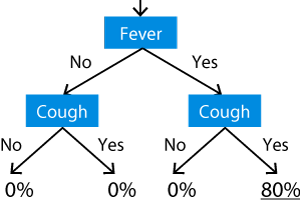
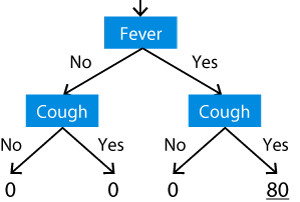
Change to points to avoid the desire to sum to 100

diff --git a/user_studies/tree_max/static/js/bundle.js b/user_studies/tree_max/static/js/bundle.js
@@ -16156,7 +16156,7 @@ var AssignCompetitiveLoss = function (_React$Component) {
             _react2.default.createElement(
               'p',
               null,
-              'People\'s chance of having a certain disease is computed in the following manner:'
+              'People\'s risk of having a certain disease is computed in the following manner:'
             ),
             _react2.default.createElement(
               'div',
@@ -16184,7 +16184,7 @@ var AssignCompetitiveLoss = function (_React$Component) {
                     _react2.default.createElement(
                       'td',
                       null,
-                      '80% chance'
+                      '80'
                     )
                   ),
                   _react2.default.createElement(
@@ -16198,7 +16198,7 @@ var AssignCompetitiveLoss = function (_React$Component) {
                     _react2.default.createElement(
                       'td',
                       null,
-                      '0% chance'
+                      '0'
                     )
                   )
                 )
@@ -16213,7 +16213,7 @@ var AssignCompetitiveLoss = function (_React$Component) {
               _react2.default.createElement('br', null),
               _react2.default.createElement('br', null)
             ),
-            'Among all the people an equal proportion have fever AND cough, just fever, just cough, and neither fever nor cough. This means that before a doctor knows a person\'s symptoms their chance of having the disease is 20% (which is 80% * 1/4).',
+            'Among all the people an equal proportion have fever AND cough, just fever, just cough, and neither fever nor cough. This means that before a doctor knows a person\'s symptoms their risk of having the disease is 20 (which is (80+0+0+0)/4, the average risk).',
             _react2.default.createElement('br', null),
             _react2.default.createElement('br', null),
             'One person has the following symptoms:',
@@ -16262,12 +16262,12 @@ var AssignCompetitiveLoss = function (_React$Component) {
             _react2.default.createElement(
               'b',
               null,
-              'increased 60%'
+              'increased 60 points'
             ),
-            ' from 20% to 80%.',
+            ' from 20 to 80.',
             _react2.default.createElement('br', null),
             _react2.default.createElement('br', null),
-            'What portion of this 60% increase in risk is attributable to each of the two symptoms? (the numbers below do not need to add to 100)',
+            'What portion of this 60 point increase in risk is attributable to each of the two symptoms?',
             _react2.default.createElement('br', null),
             _react2.default.createElement('br', null),
             _react2.default.createElement('br', null),
@@ -16287,7 +16287,7 @@ var AssignCompetitiveLoss = function (_React$Component) {
                       'td',
                       { style: { textAlign: "center", width: "150px" } },
                       _react2.default.createElement(_TextField2.default, { name: 'fever', value: this.state.fever, onChange: this.handleChange, style: { width: "20px", marginLeft: 3, marginRight: 3 } }),
-                      ' %',
+                      ' points',
                       _react2.default.createElement('br', null),
                       'Fever: ',
                       _react2.default.createElement(
@@ -16300,7 +16300,7 @@ var AssignCompetitiveLoss = function (_React$Component) {
                       'td',
                       { style: { textAlign: "center", width: "150px" } },
                       _react2.default.createElement(_TextField2.default, { name: 'cough', value: this.state.cough, onChange: this.handleChange, style: { width: "20px", marginLeft: 3, marginRight: 3 } }),
-                      ' %',
+                      ' points',
                       _react2.default.createElement('br', null),
                       'Cough: ',
                       _react2.default.createElement(

diff --git a/user_studies/tree_max/AssignCompetitiveLoss.jsx b/user_studies/tree_max/AssignCompetitiveLoss.jsx
@@ -62,7 +62,7 @@ export default class AssignCompetitiveLoss extends React.Component {
 
         	<div className="instructions well">
 
-              <p>People's chance of having a certain disease is computed in the following manner:</p>
+              <p>People's risk of having a certain disease is computed in the following manner:</p>
 
               <div style={{textAlign: "center"}}>
               <table style={{display: "inline-block", textAlign: "left"}}><tbody>
@@ -71,7 +71,7 @@ export default class AssignCompetitiveLoss extends React.Component {
                     If they have a fever <i>AND</i> a cough:
                   </td>
                   <td>
-                    80% chance
+                    80
                   </td>
                 </tr>
                 <tr>
@@ -79,7 +79,7 @@ export default class AssignCompetitiveLoss extends React.Component {
                     Otherwise:
                   </td>
                   <td>
-                    0% chance
+                    0
                   </td>
                 </tr>
               </tbody></table>
@@ -90,7 +90,7 @@ export default class AssignCompetitiveLoss extends React.Component {
               <br/><br/>
               </div>
 
-              Among all the people an equal proportion have fever AND cough, just fever, just cough, and neither fever nor cough. This means that before a doctor knows a person's symptoms their chance of having the disease is 20% (which is 80% * 1/4).<br/>
+              Among all the people an equal proportion have fever AND cough, just fever, just cough, and neither fever nor cough. This means that before a doctor knows a person's symptoms their risk of having the disease is 20 (which is (80+0+0+0)/4, the average risk).<br/>
 
 
               <br/>
@@ -115,20 +115,20 @@ export default class AssignCompetitiveLoss extends React.Component {
                 </tr>
               </tbody></table>
               </div>
-              After learning these symptoms, the doctor now knows their risk has <b>increased 60%</b> from 20% to 80%.<br/>
+              After learning these symptoms, the doctor now knows their risk has <b>increased 60 points</b> from 20 to 80.<br/>
               <br/>
-              What portion of this 60% increase in risk is attributable to each of the two symptoms? (the numbers below do not need to add to 100)<br/>
+              What portion of this 60 point increase in risk is attributable to each of the two symptoms?<br/>
 
             <br/><br/>
               <div style={{textAlign: "center"}}>
               <table style={{display: "inline-block", textAlign: "left"}}><tbody>
                 <tr>
                   <td style={{textAlign: "center", width: "150px"}}>
-                    <TextField name="fever" value={this.state.fever} onChange={this.handleChange} style={{width: "20px", marginLeft: 3, marginRight: 3}} /> %<br/>
+                    <TextField name="fever" value={this.state.fever} onChange={this.handleChange} style={{width: "20px", marginLeft: 3, marginRight: 3}} /> points<br/>
                     Fever: <b style={{color: "#990000"}}>YES</b>
                   </td>
                   <td style={{textAlign: "center", width: "150px"}}>
-                    <TextField name="cough" value={this.state.cough} onChange={this.handleChange} style={{width: "20px", marginLeft: 3, marginRight: 3}} /> %<br/>
+                    <TextField name="cough" value={this.state.cough} onChange={this.handleChange} style={{width: "20px", marginLeft: 3, marginRight: 3}} /> points<br/>
                     Cough: <b style={{color: "#990000"}}>YES</b>
                   </td>
                 </tr>
